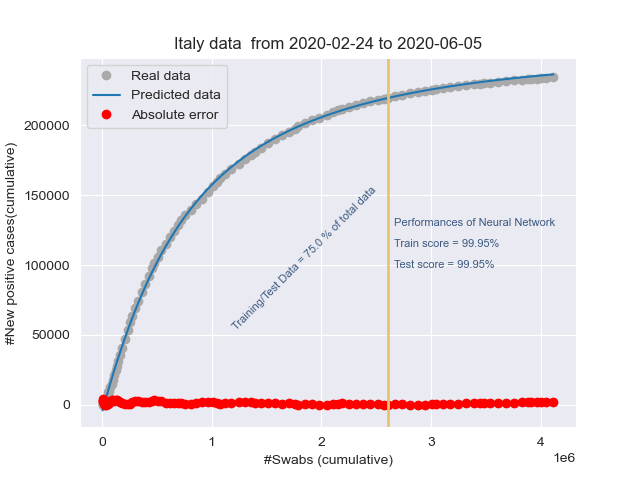
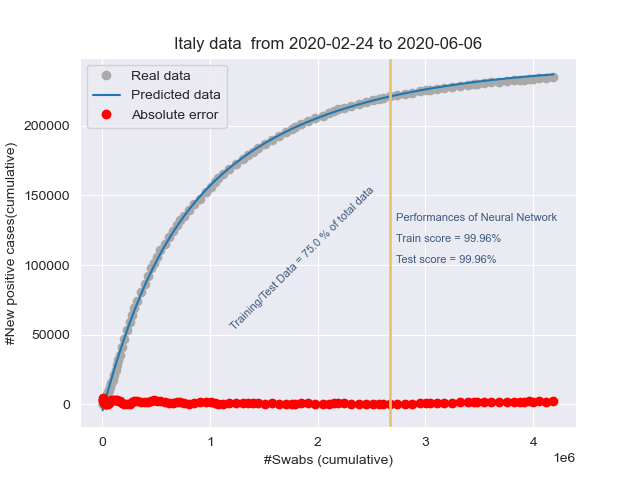
Add files via upload

diff --git a/stat_Friuli Venezia Giulia.html b/stat_Friuli Venezia Giulia.html
@@ -1,1 +1,1 @@
-<!DOCTYPE html><html lang="it"><head><title>Results</title><meta charset="utf-8"><meta name="viewport" content="width=device-width, initial-scale=1"><link rel="stylesheet" href="bootstrap.min.css"><script src="https://ajax.googleapis.com/ajax/libs/jquery/3.4.1/jquery.min.js"></script><script src="https://maxcdn.bootstrapcdn.com/bootstrap/3.4.1/js/bootstrap.min.js"></script></head><body><h3>Day: 2020-06-05</h3><p class="lead my-3">New positive cases: <b>1</b></p><p class="lead my-3">Variation of positive cases: <b>-66.67%</b></p><p class="lead my-3">Number of swabs: <b>3304.0</b></p><p class="lead my-3">Variation of swabs: <b>2.38%</b></p><p class="lead my-3">Postive cases/Swabs: <b>0.03 %</b></p><p class="lead my-3">Number of people admitted to Intensive care: <b>2</b></p><p class="lead my-3">Number of recovered people: <b>32.0</b></p><p class="lead my-3">Number of dead people: <b>2.0</b></p><h3>Total</h3><p class="lead my-3">Population of  Friuli Venezia Giulia: <b>1215220</b> <a href="http://dati.istat.it/Index.aspx?QueryId=18548" target="_blank">ISTAT data</a></p><p class="lead my-3">Total number of positive cases from 2020-02-24 00:00:00 to 2020-06-05: <b> 3280</b></p><p class="lead my-3">Total number of swabs from 2020-02-24 00:00:00 to 2020-06-05: <b> 142246</b></p><p class="lead my-3">TotalSwabs/Population: <b> 11.71%</b></p></body></html>
+<!DOCTYPE html><html lang="it"><head><title>Results</title><meta charset="utf-8"><meta name="viewport" content="width=device-width, initial-scale=1"><link rel="stylesheet" href="bootstrap.min.css"><script src="https://ajax.googleapis.com/ajax/libs/jquery/3.4.1/jquery.min.js"></script><script src="https://maxcdn.bootstrapcdn.com/bootstrap/3.4.1/js/bootstrap.min.js"></script></head><body><h3>Day: 2020-06-06</h3><p class="lead my-3">New positive cases: <b>3</b></p><p class="lead my-3">Variation of positive cases: <b>200.0%</b></p><p class="lead my-3">Number of swabs: <b>4092.0</b></p><p class="lead my-3">Variation of swabs: <b>2.88%</b></p><p class="lead my-3">Postive cases/Swabs: <b>0.07 %</b></p><p class="lead my-3">Number of people admitted to Intensive care: <b>2</b></p><p class="lead my-3">Number of recovered people: <b>22.0</b></p><p class="lead my-3">Number of dead people: <b>0.0</b></p><h3>Total</h3><p class="lead my-3">Population of  Friuli Venezia Giulia: <b>1215220</b> <a href="http://dati.istat.it/Index.aspx?QueryId=18548" target="_blank">ISTAT data</a></p><p class="lead my-3">Total number of positive cases from 2020-02-24 00:00:00 to 2020-06-06: <b> 3283</b></p><p class="lead my-3">Total number of swabs from 2020-02-24 00:00:00 to 2020-06-06: <b> 146338</b></p><p class="lead my-3">TotalSwabs/Population: <b> 12.04%</b></p></body></html>

diff --git a/stat_Lombardia.html b/stat_Lombardia.html
@@ -1,1 +1,1 @@
-<!DOCTYPE html><html lang="it"><head><title>Results</title><meta charset="utf-8"><meta name="viewport" content="width=device-width, initial-scale=1"><link rel="stylesheet" href="bootstrap.min.css"><script src="https://ajax.googleapis.com/ajax/libs/jquery/3.4.1/jquery.min.js"></script><script src="https://maxcdn.bootstrapcdn.com/bootstrap/3.4.1/js/bootstrap.min.js"></script></head><body><h3>Day: 2020-06-05</h3><p class="lead my-3">New positive cases: <b>402</b></p><p class="lead my-3">Variation of positive cases: <b>378.57%</b></p><p class="lead my-3">Number of swabs: <b>19389.0</b></p><p class="lead my-3">Variation of swabs: <b>2.48%</b></p><p class="lead my-3">Postive cases/Swabs: <b>2.07 %</b></p><p class="lead my-3">Number of people admitted to Intensive care: <b>120</b></p><p class="lead my-3">Number of recovered people: <b>752.0</b></p><p class="lead my-3">Number of dead people: <b>21.0</b></p><h3>Total</h3><p class="lead my-3">Population of  Lombardia: <b>10060574</b> <a href="http://dati.istat.it/Index.aspx?QueryId=18548" target="_blank">ISTAT data</a></p><p class="lead my-3">Total number of positive cases from 2020-02-24 00:00:00 to 2020-06-05: <b> 89922</b></p><p class="lead my-3">Total number of swabs from 2020-02-24 00:00:00 to 2020-06-05: <b> 800276</b></p><p class="lead my-3">TotalSwabs/Population: <b> 7.95%</b></p></body></html>
+<!DOCTYPE html><html lang="it"><head><title>Results</title><meta charset="utf-8"><meta name="viewport" content="width=device-width, initial-scale=1"><link rel="stylesheet" href="bootstrap.min.css"><script src="https://ajax.googleapis.com/ajax/libs/jquery/3.4.1/jquery.min.js"></script><script src="https://maxcdn.bootstrapcdn.com/bootstrap/3.4.1/js/bootstrap.min.js"></script></head><body><h3>Day: 2020-06-06</h3><p class="lead my-3">New positive cases: <b>142</b></p><p class="lead my-3">Variation of positive cases: <b>-64.68%</b></p><p class="lead my-3">Number of swabs: <b>13696.0</b></p><p class="lead my-3">Variation of swabs: <b>1.71%</b></p><p class="lead my-3">Postive cases/Swabs: <b>1.04 %</b></p><p class="lead my-3">Number of people admitted to Intensive care: <b>110</b></p><p class="lead my-3">Number of recovered people: <b>469.0</b></p><p class="lead my-3">Number of dead people: <b>27.0</b></p><h3>Total</h3><p class="lead my-3">Population of  Lombardia: <b>10060574</b> <a href="http://dati.istat.it/Index.aspx?QueryId=18548" target="_blank">ISTAT data</a></p><p class="lead my-3">Total number of positive cases from 2020-02-24 00:00:00 to 2020-06-06: <b> 90064</b></p><p class="lead my-3">Total number of swabs from 2020-02-24 00:00:00 to 2020-06-06: <b> 813972</b></p><p class="lead my-3">TotalSwabs/Population: <b> 8.09%</b></p></body></html>

diff --git a/stat_Emilia-Romagna.html b/stat_Emilia-Romagna.html
@@ -1,1 +1,1 @@
-<!DOCTYPE html><html lang="it"><head><title>Results</title><meta charset="utf-8"><meta name="viewport" content="width=device-width, initial-scale=1"><link rel="stylesheet" href="bootstrap.min.css"><script src="https://ajax.googleapis.com/ajax/libs/jquery/3.4.1/jquery.min.js"></script><script src="https://maxcdn.bootstrapcdn.com/bootstrap/3.4.1/js/bootstrap.min.js"></script></head><body><h3>Day: 2020-06-05</h3><p class="lead my-3">New positive cases: <b>17</b></p><p class="lead my-3">Variation of positive cases: <b>-5.56%</b></p><p class="lead my-3">Number of swabs: <b>5436.0</b></p><p class="lead my-3">Variation of swabs: <b>1.59%</b></p><p class="lead my-3">Postive cases/Swabs: <b>0.31 %</b></p><p class="lead my-3">Number of people admitted to Intensive care: <b>38</b></p><p class="lead my-3">Number of recovered people: <b>180.0</b></p><p class="lead my-3">Number of dead people: <b>13.0</b></p><h3>Total</h3><p class="lead my-3">Population of  Emilia-Romagna: <b>4459477</b> <a href="http://dati.istat.it/Index.aspx?QueryId=18548" target="_blank">ISTAT data</a></p><p class="lead my-3">Total number of positive cases from 2020-02-24 00:00:00 to 2020-06-05: <b> 27877</b></p><p class="lead my-3">Total number of swabs from 2020-02-24 00:00:00 to 2020-06-05: <b> 347146</b></p><p class="lead my-3">TotalSwabs/Population: <b> 7.78%</b></p></body></html>
+<!DOCTYPE html><html lang="it"><head><title>Results</title><meta charset="utf-8"><meta name="viewport" content="width=device-width, initial-scale=1"><link rel="stylesheet" href="bootstrap.min.css"><script src="https://ajax.googleapis.com/ajax/libs/jquery/3.4.1/jquery.min.js"></script><script src="https://maxcdn.bootstrapcdn.com/bootstrap/3.4.1/js/bootstrap.min.js"></script></head><body><h3>Day: 2020-06-06</h3><p class="lead my-3">New positive cases: <b>17</b></p><p class="lead my-3">Variation of positive cases: <b>0.0%</b></p><p class="lead my-3">Number of swabs: <b>4000.0</b></p><p class="lead my-3">Variation of swabs: <b>1.15%</b></p><p class="lead my-3">Postive cases/Swabs: <b>0.43 %</b></p><p class="lead my-3">Number of people admitted to Intensive care: <b>35</b></p><p class="lead my-3">Number of recovered people: <b>109.0</b></p><p class="lead my-3">Number of dead people: <b>4.0</b></p><h3>Total</h3><p class="lead my-3">Population of  Emilia-Romagna: <b>4459477</b> <a href="http://dati.istat.it/Index.aspx?QueryId=18548" target="_blank">ISTAT data</a></p><p class="lead my-3">Total number of positive cases from 2020-02-24 00:00:00 to 2020-06-06: <b> 27894</b></p><p class="lead my-3">Total number of swabs from 2020-02-24 00:00:00 to 2020-06-06: <b> 351146</b></p><p class="lead my-3">TotalSwabs/Population: <b> 7.87%</b></p></body></html>

diff --git a/stat_Italy.html b/stat_Italy.html
@@ -1,1 +1,1 @@
-<!DOCTYPE html><html lang="it"><head><title>Results</title><meta charset="utf-8"><meta name="viewport" content="width=device-width, initial-scale=1"><link rel="stylesheet" href="bootstrap.min.css"><script src="https://ajax.googleapis.com/ajax/libs/jquery/3.4.1/jquery.min.js"></script><script src="https://maxcdn.bootstrapcdn.com/bootstrap/3.4.1/js/bootstrap.min.js"></script></head><body><h3>Day: 2020-06-05</h3><p class="lead my-3">New positive cases: <b>518</b></p><p class="lead my-3">Variation of positive cases: <b>192.66%</b></p><p class="lead my-3">Number of swabs: <b>65028.0</b></p><p class="lead my-3">Variation of swabs: <b>1.61%</b></p><p class="lead my-3">Postive cases/Swabs: <b>0.8 %</b></p><p class="lead my-3">Number of people admitted to Intensive care: <b>316</b></p><p class="lead my-3">Number of recovered people: <b>1886.0</b></p><p class="lead my-3">Number of dead people: <b>85.0</b></p><h3>Total</h3><p class="lead my-3">Population of  Italy: <b>60359546</b> <a href="http://dati.istat.it/Index.aspx?QueryId=18548" target="_blank">ISTAT data</a></p><p class="lead my-3">Total number of positive cases from 2020-02-24 00:00:00 to 2020-06-05: <b> 234523</b></p><p class="lead my-3">Total number of swabs from 2020-02-24 00:00:00 to 2020-06-05: <b> 4114572</b></p><p class="lead my-3">TotalSwabs/Population: <b> 6.82%</b></p></body></html>
+<!DOCTYPE html><html lang="it"><head><title>Results</title><meta charset="utf-8"><meta name="viewport" content="width=device-width, initial-scale=1"><link rel="stylesheet" href="bootstrap.min.css"><script src="https://ajax.googleapis.com/ajax/libs/jquery/3.4.1/jquery.min.js"></script><script src="https://maxcdn.bootstrapcdn.com/bootstrap/3.4.1/js/bootstrap.min.js"></script></head><body><h3>Day: 2020-06-06</h3><p class="lead my-3">New positive cases: <b>270</b></p><p class="lead my-3">Variation of positive cases: <b>-47.88%</b></p><p class="lead my-3">Number of swabs: <b>72485.0</b></p><p class="lead my-3">Variation of swabs: <b>1.76%</b></p><p class="lead my-3">Postive cases/Swabs: <b>0.37 %</b></p><p class="lead my-3">Number of people admitted to Intensive care: <b>293</b></p><p class="lead my-3">Number of recovered people: <b>1297.0</b></p><p class="lead my-3">Number of dead people: <b>72.0</b></p><h3>Total</h3><p class="lead my-3">Population of  Italy: <b>60359546</b> <a href="http://dati.istat.it/Index.aspx?QueryId=18548" target="_blank">ISTAT data</a></p><p class="lead my-3">Total number of positive cases from 2020-02-24 00:00:00 to 2020-06-06: <b> 234793</b></p><p class="lead my-3">Total number of swabs from 2020-02-24 00:00:00 to 2020-06-06: <b> 4187057</b></p><p class="lead my-3">TotalSwabs/Population: <b> 6.94%</b></p></body></html>

diff --git a/stat_Piemonte.html b/stat_Piemonte.html
@@ -1,1 +1,1 @@
-<!DOCTYPE html><html lang="it"><head><title>Results</title><meta charset="utf-8"><meta name="viewport" content="width=device-width, initial-scale=1"><link rel="stylesheet" href="bootstrap.min.css"><script src="https://ajax.googleapis.com/ajax/libs/jquery/3.4.1/jquery.min.js"></script><script src="https://maxcdn.bootstrapcdn.com/bootstrap/3.4.1/js/bootstrap.min.js"></script></head><body><h3>Day: 2020-06-05</h3><p class="lead my-3">New positive cases: <b>49</b></p><p class="lead my-3">Variation of positive cases: <b>104.17%</b></p><p class="lead my-3">Number of swabs: <b>4573.0</b></p><p class="lead my-3">Variation of swabs: <b>1.38%</b></p><p class="lead my-3">Postive cases/Swabs: <b>1.07 %</b></p><p class="lead my-3">Number of people admitted to Intensive care: <b>40</b></p><p class="lead my-3">Number of recovered people: <b>219.0</b></p><p class="lead my-3">Number of dead people: <b>17.0</b></p><h3>Total</h3><p class="lead my-3">Population of  Piemonte: <b>4356406</b> <a href="http://dati.istat.it/Index.aspx?QueryId=18548" target="_blank">ISTAT data</a></p><p class="lead my-3">Total number of positive cases from 2020-02-24 00:00:00 to 2020-06-05: <b> 30807</b></p><p class="lead my-3">Total number of swabs from 2020-02-24 00:00:00 to 2020-06-05: <b> 335814</b></p><p class="lead my-3">TotalSwabs/Population: <b> 7.71%</b></p></body></html>
+<!DOCTYPE html><html lang="it"><head><title>Results</title><meta charset="utf-8"><meta name="viewport" content="width=device-width, initial-scale=1"><link rel="stylesheet" href="bootstrap.min.css"><script src="https://ajax.googleapis.com/ajax/libs/jquery/3.4.1/jquery.min.js"></script><script src="https://maxcdn.bootstrapcdn.com/bootstrap/3.4.1/js/bootstrap.min.js"></script></head><body><h3>Day: 2020-06-06</h3><p class="lead my-3">New positive cases: <b>38</b></p><p class="lead my-3">Variation of positive cases: <b>-22.45%</b></p><p class="lead my-3">Number of swabs: <b>4362.0</b></p><p class="lead my-3">Variation of swabs: <b>1.3%</b></p><p class="lead my-3">Postive cases/Swabs: <b>0.87 %</b></p><p class="lead my-3">Number of people admitted to Intensive care: <b>37</b></p><p class="lead my-3">Number of recovered people: <b>233.0</b></p><p class="lead my-3">Number of dead people: <b>7.0</b></p><h3>Total</h3><p class="lead my-3">Population of  Piemonte: <b>4356406</b> <a href="http://dati.istat.it/Index.aspx?QueryId=18548" target="_blank">ISTAT data</a></p><p class="lead my-3">Total number of positive cases from 2020-02-24 00:00:00 to 2020-06-06: <b> 30845</b></p><p class="lead my-3">Total number of swabs from 2020-02-24 00:00:00 to 2020-06-06: <b> 340176</b></p><p class="lead my-3">TotalSwabs/Population: <b> 7.81%</b></p></body></html>

diff --git a/stat_Toscana.html b/stat_Toscana.html
@@ -1,1 +1,1 @@
-<!DOCTYPE html><html lang="it"><head><title>Results</title><meta charset="utf-8"><meta name="viewport" content="width=device-width, initial-scale=1"><link rel="stylesheet" href="bootstrap.min.css"><script src="https://ajax.googleapis.com/ajax/libs/jquery/3.4.1/jquery.min.js"></script><script src="https://maxcdn.bootstrapcdn.com/bootstrap/3.4.1/js/bootstrap.min.js"></script></head><body><h3>Day: 2020-06-05</h3><p class="lead my-3">New positive cases: <b>7</b></p><p class="lead my-3">Variation of positive cases: <b>600.0%</b></p><p class="lead my-3">Number of swabs: <b>3746.0</b></p><p class="lead my-3">Variation of swabs: <b>1.43%</b></p><p class="lead my-3">Postive cases/Swabs: <b>0.19 %</b></p><p class="lead my-3">Number of people admitted to Intensive care: <b>23</b></p><p class="lead my-3">Number of recovered people: <b>29.0</b></p><p class="lead my-3">Number of dead people: <b>4.0</b></p><h3>Total</h3><p class="lead my-3">Population of  Toscana: <b>3729641</b> <a href="http://dati.istat.it/Index.aspx?QueryId=18548" target="_blank">ISTAT data</a></p><p class="lead my-3">Total number of positive cases from 2020-02-24 00:00:00 to 2020-06-05: <b> 10129</b></p><p class="lead my-3">Total number of swabs from 2020-02-24 00:00:00 to 2020-06-05: <b> 266508</b></p><p class="lead my-3">TotalSwabs/Population: <b> 7.15%</b></p></body></html>
+<!DOCTYPE html><html lang="it"><head><title>Results</title><meta charset="utf-8"><meta name="viewport" content="width=device-width, initial-scale=1"><link rel="stylesheet" href="bootstrap.min.css"><script src="https://ajax.googleapis.com/ajax/libs/jquery/3.4.1/jquery.min.js"></script><script src="https://maxcdn.bootstrapcdn.com/bootstrap/3.4.1/js/bootstrap.min.js"></script></head><body><h3>Day: 2020-06-06</h3><p class="lead my-3">New positive cases: <b>5</b></p><p class="lead my-3">Variation of positive cases: <b>-28.57%</b></p><p class="lead my-3">Number of swabs: <b>2790.0</b></p><p class="lead my-3">Variation of swabs: <b>1.05%</b></p><p class="lead my-3">Postive cases/Swabs: <b>0.18 %</b></p><p class="lead my-3">Number of people admitted to Intensive care: <b>22</b></p><p class="lead my-3">Number of recovered people: <b>72.0</b></p><p class="lead my-3">Number of dead people: <b>5.0</b></p><h3>Total</h3><p class="lead my-3">Population of  Toscana: <b>3729641</b> <a href="http://dati.istat.it/Index.aspx?QueryId=18548" target="_blank">ISTAT data</a></p><p class="lead my-3">Total number of positive cases from 2020-02-24 00:00:00 to 2020-06-06: <b> 10134</b></p><p class="lead my-3">Total number of swabs from 2020-02-24 00:00:00 to 2020-06-06: <b> 269298</b></p><p class="lead my-3">TotalSwabs/Population: <b> 7.22%</b></p></body></html>

diff --git a/stat_Veneto.html b/stat_Veneto.html
@@ -1,1 +1,1 @@
-<!DOCTYPE html><html lang="it"><head><title>Results</title><meta charset="utf-8"><meta name="viewport" content="width=device-width, initial-scale=1"><link rel="stylesheet" href="bootstrap.min.css"><script src="https://ajax.googleapis.com/ajax/libs/jquery/3.4.1/jquery.min.js"></script><script src="https://maxcdn.bootstrapcdn.com/bootstrap/3.4.1/js/bootstrap.min.js"></script></head><body><h3>Day: 2020-06-05</h3><p class="lead my-3">New positive cases: <b>6</b></p><p class="lead my-3">Variation of positive cases: <b>50.0%</b></p><p class="lead my-3">Number of swabs: <b>7025.0</b></p><p class="lead my-3">Variation of swabs: <b>0.99%</b></p><p class="lead my-3">Postive cases/Swabs: <b>0.09 %</b></p><p class="lead my-3">Number of people admitted to Intensive care: <b>2</b></p><p class="lead my-3">Number of recovered people: <b>92.0</b></p><p class="lead my-3">Number of dead people: <b>4.0</b></p><h3>Total</h3><p class="lead my-3">Population of  Veneto: <b>4905854</b> <a href="http://dati.istat.it/Index.aspx?QueryId=18548" target="_blank">ISTAT data</a></p><p class="lead my-3">Total number of positive cases from 2020-02-24 00:00:00 to 2020-06-05: <b> 19173</b></p><p class="lead my-3">Total number of swabs from 2020-02-24 00:00:00 to 2020-06-05: <b> 713500</b></p><p class="lead my-3">TotalSwabs/Population: <b> 14.54%</b></p></body></html>
+<!DOCTYPE html><html lang="it"><head><title>Results</title><meta charset="utf-8"><meta name="viewport" content="width=device-width, initial-scale=1"><link rel="stylesheet" href="bootstrap.min.css"><script src="https://ajax.googleapis.com/ajax/libs/jquery/3.4.1/jquery.min.js"></script><script src="https://maxcdn.bootstrapcdn.com/bootstrap/3.4.1/js/bootstrap.min.js"></script></head><body><h3>Day: 2020-06-06</h3><p class="lead my-3">New positive cases: <b>8</b></p><p class="lead my-3">Variation of positive cases: <b>33.33%</b></p><p class="lead my-3">Number of swabs: <b>20630.0</b></p><p class="lead my-3">Variation of swabs: <b>2.89%</b></p><p class="lead my-3">Postive cases/Swabs: <b>0.04 %</b></p><p class="lead my-3">Number of people admitted to Intensive care: <b>2</b></p><p class="lead my-3">Number of recovered people: <b>62.0</b></p><p class="lead my-3">Number of dead people: <b>11.0</b></p><h3>Total</h3><p class="lead my-3">Population of  Veneto: <b>4905854</b> <a href="http://dati.istat.it/Index.aspx?QueryId=18548" target="_blank">ISTAT data</a></p><p class="lead my-3">Total number of positive cases from 2020-02-24 00:00:00 to 2020-06-06: <b> 19181</b></p><p class="lead my-3">Total number of swabs from 2020-02-24 00:00:00 to 2020-06-06: <b> 734130</b></p><p class="lead my-3">TotalSwabs/Population: <b> 14.96%</b></p></body></html>

diff --git a/stat_Liguria.html b/stat_Liguria.html
@@ -1,1 +1,1 @@
-<!DOCTYPE html><html lang="it"><head><title>Results</title><meta charset="utf-8"><meta name="viewport" content="width=device-width, initial-scale=1"><link rel="stylesheet" href="bootstrap.min.css"><script src="https://ajax.googleapis.com/ajax/libs/jquery/3.4.1/jquery.min.js"></script><script src="https://maxcdn.bootstrapcdn.com/bootstrap/3.4.1/js/bootstrap.min.js"></script></head><body><h3>Day: 2020-06-05</h3><p class="lead my-3">New positive cases: <b>14</b></p><p class="lead my-3">Variation of positive cases: <b>-33.33%</b></p><p class="lead my-3">Number of swabs: <b>1742.0</b></p><p class="lead my-3">Variation of swabs: <b>1.56%</b></p><p class="lead my-3">Postive cases/Swabs: <b>0.8 %</b></p><p class="lead my-3">Number of people admitted to Intensive care: <b>6</b></p><p class="lead my-3">Number of recovered people: <b>157.0</b></p><p class="lead my-3">Number of dead people: <b>7.0</b></p><h3>Total</h3><p class="lead my-3">Population of  Liguria: <b>1550640</b> <a href="http://dati.istat.it/Index.aspx?QueryId=18548" target="_blank">ISTAT data</a></p><p class="lead my-3">Total number of positive cases from 2020-02-24 00:00:00 to 2020-06-05: <b> 9786</b></p><p class="lead my-3">Total number of swabs from 2020-02-24 00:00:00 to 2020-06-05: <b> 113329</b></p><p class="lead my-3">TotalSwabs/Population: <b> 7.31%</b></p></body></html>
+<!DOCTYPE html><html lang="it"><head><title>Results</title><meta charset="utf-8"><meta name="viewport" content="width=device-width, initial-scale=1"><link rel="stylesheet" href="bootstrap.min.css"><script src="https://ajax.googleapis.com/ajax/libs/jquery/3.4.1/jquery.min.js"></script><script src="https://maxcdn.bootstrapcdn.com/bootstrap/3.4.1/js/bootstrap.min.js"></script></head><body><h3>Day: 2020-06-06</h3><p class="lead my-3">New positive cases: <b>13</b></p><p class="lead my-3">Variation of positive cases: <b>-7.14%</b></p><p class="lead my-3">Number of swabs: <b>1558.0</b></p><p class="lead my-3">Variation of swabs: <b>1.37%</b></p><p class="lead my-3">Postive cases/Swabs: <b>0.83 %</b></p><p class="lead my-3">Number of people admitted to Intensive care: <b>4</b></p><p class="lead my-3">Number of recovered people: <b>6.0</b></p><p class="lead my-3">Number of dead people: <b>6.0</b></p><h3>Total</h3><p class="lead my-3">Population of  Liguria: <b>1550640</b> <a href="http://dati.istat.it/Index.aspx?QueryId=18548" target="_blank">ISTAT data</a></p><p class="lead my-3">Total number of positive cases from 2020-02-24 00:00:00 to 2020-06-06: <b> 9799</b></p><p class="lead my-3">Total number of swabs from 2020-02-24 00:00:00 to 2020-06-06: <b> 114887</b></p><p class="lead my-3">TotalSwabs/Population: <b> 7.41%</b></p></body></html>

diff --git a/stat_P.A. Bolzano.html b/stat_P.A. Bolzano.html
@@ -1,1 +1,1 @@
-<!DOCTYPE html><html lang="it"><head><title>Results</title><meta charset="utf-8"><meta name="viewport" content="width=device-width, initial-scale=1"><link rel="stylesheet" href="bootstrap.min.css"><script src="https://ajax.googleapis.com/ajax/libs/jquery/3.4.1/jquery.min.js"></script><script src="https://maxcdn.bootstrapcdn.com/bootstrap/3.4.1/js/bootstrap.min.js"></script></head><body><h3>Day: 2020-06-05</h3><p class="lead my-3">New positive cases: <b>1</b></p><p class="lead my-3">Variation of positive cases: <b>inf%</b></p><p class="lead my-3">Number of swabs: <b>953.0</b></p><p class="lead my-3">Variation of swabs: <b>1.39%</b></p><p class="lead my-3">Postive cases/Swabs: <b>0.1 %</b></p><p class="lead my-3">Number of people admitted to Intensive care: <b>2</b></p><p class="lead my-3">Number of recovered people: <b>12.0</b></p><p class="lead my-3">Number of dead people: <b>0.0</b></p><h3>Total</h3><p class="lead my-3">Population of  P.A. Bolzano: <b>531178</b> <a href="http://dati.istat.it/Index.aspx?QueryId=18548" target="_blank">ISTAT data</a></p><p class="lead my-3">Total number of positive cases from 2020-02-24 00:00:00 to 2020-06-05: <b> 2599</b></p><p class="lead my-3">Total number of swabs from 2020-02-24 00:00:00 to 2020-06-05: <b> 69466</b></p><p class="lead my-3">TotalSwabs/Population: <b> 13.08%</b></p></body></html>
+<!DOCTYPE html><html lang="it"><head><title>Results</title><meta charset="utf-8"><meta name="viewport" content="width=device-width, initial-scale=1"><link rel="stylesheet" href="bootstrap.min.css"><script src="https://ajax.googleapis.com/ajax/libs/jquery/3.4.1/jquery.min.js"></script><script src="https://maxcdn.bootstrapcdn.com/bootstrap/3.4.1/js/bootstrap.min.js"></script></head><body><h3>Day: 2020-06-06</h3><p class="lead my-3">New positive cases: <b>1</b></p><p class="lead my-3">Variation of positive cases: <b>0.0%</b></p><p class="lead my-3">Number of swabs: <b>1112.0</b></p><p class="lead my-3">Variation of swabs: <b>1.6%</b></p><p class="lead my-3">Postive cases/Swabs: <b>0.09 %</b></p><p class="lead my-3">Number of people admitted to Intensive care: <b>2</b></p><p class="lead my-3">Number of recovered people: <b>2.0</b></p><p class="lead my-3">Number of dead people: <b>0.0</b></p><h3>Total</h3><p class="lead my-3">Population of  P.A. Bolzano: <b>531178</b> <a href="http://dati.istat.it/Index.aspx?QueryId=18548" target="_blank">ISTAT data</a></p><p class="lead my-3">Total number of positive cases from 2020-02-24 00:00:00 to 2020-06-06: <b> 2600</b></p><p class="lead my-3">Total number of swabs from 2020-02-24 00:00:00 to 2020-06-06: <b> 70578</b></p><p class="lead my-3">TotalSwabs/Population: <b> 13.29%</b></p></body></html>

diff --git a/stat_Abruzzo.html b/stat_Abruzzo.html
@@ -1,1 +1,1 @@
-<!DOCTYPE html><html lang="it"><head><title>Results</title><meta charset="utf-8"><meta name="viewport" content="width=device-width, initial-scale=1"><link rel="stylesheet" href="bootstrap.min.css"><script src="https://ajax.googleapis.com/ajax/libs/jquery/3.4.1/jquery.min.js"></script><script src="https://maxcdn.bootstrapcdn.com/bootstrap/3.4.1/js/bootstrap.min.js"></script></head><body><h3>Day: 2020-06-05</h3><p class="lead my-3">New positive cases: <b>2</b></p><p class="lead my-3">Variation of positive cases: <b>-33.33%</b></p><p class="lead my-3">Number of swabs: <b>1252.0</b></p><p class="lead my-3">Variation of swabs: <b>1.57%</b></p><p class="lead my-3">Postive cases/Swabs: <b>0.16 %</b></p><p class="lead my-3">Number of people admitted to Intensive care: <b>4</b></p><p class="lead my-3">Number of recovered people: <b>36.0</b></p><p class="lead my-3">Number of dead people: <b>0.0</b></p><h3>Total</h3><p class="lead my-3">Population of  Abruzzo: <b>1311580</b> <a href="http://dati.istat.it/Index.aspx?QueryId=18548" target="_blank">ISTAT data</a></p><p class="lead my-3">Total number of positive cases from 2020-02-24 00:00:00 to 2020-06-05: <b> 3257</b></p><p class="lead my-3">Total number of swabs from 2020-02-24 00:00:00 to 2020-06-05: <b> 80972</b></p><p class="lead my-3">TotalSwabs/Population: <b> 6.17%</b></p></body></html>
+<!DOCTYPE html><html lang="it"><head><title>Results</title><meta charset="utf-8"><meta name="viewport" content="width=device-width, initial-scale=1"><link rel="stylesheet" href="bootstrap.min.css"><script src="https://ajax.googleapis.com/ajax/libs/jquery/3.4.1/jquery.min.js"></script><script src="https://maxcdn.bootstrapcdn.com/bootstrap/3.4.1/js/bootstrap.min.js"></script></head><body><h3>Day: 2020-06-06</h3><p class="lead my-3">New positive cases: <b>1</b></p><p class="lead my-3">Variation of positive cases: <b>-50.0%</b></p><p class="lead my-3">Number of swabs: <b>1360.0</b></p><p class="lead my-3">Variation of swabs: <b>1.68%</b></p><p class="lead my-3">Postive cases/Swabs: <b>0.07 %</b></p><p class="lead my-3">Number of people admitted to Intensive care: <b>3</b></p><p class="lead my-3">Number of recovered people: <b>15.0</b></p><p class="lead my-3">Number of dead people: <b>3.0</b></p><h3>Total</h3><p class="lead my-3">Population of  Abruzzo: <b>1311580</b> <a href="http://dati.istat.it/Index.aspx?QueryId=18548" target="_blank">ISTAT data</a></p><p class="lead my-3">Total number of positive cases from 2020-02-24 00:00:00 to 2020-06-06: <b> 3258</b></p><p class="lead my-3">Total number of swabs from 2020-02-24 00:00:00 to 2020-06-06: <b> 82332</b></p><p class="lead my-3">TotalSwabs/Population: <b> 6.28%</b></p></body></html>

diff --git a/stat_Campania.html b/stat_Campania.html
@@ -1,1 +1,1 @@
-<!DOCTYPE html><html lang="it"><head><title>Results</title><meta charset="utf-8"><meta name="viewport" content="width=device-width, initial-scale=1"><link rel="stylesheet" href="bootstrap.min.css"><script src="https://ajax.googleapis.com/ajax/libs/jquery/3.4.1/jquery.min.js"></script><script src="https://maxcdn.bootstrapcdn.com/bootstrap/3.4.1/js/bootstrap.min.js"></script></head><body><h3>Day: 2020-06-05</h3><p class="lead my-3">New positive cases: <b>0</b></p><p class="lead my-3">Variation of positive cases: <b>-100.0%</b></p><p class="lead my-3">Number of swabs: <b>2485.0</b></p><p class="lead my-3">Variation of swabs: <b>1.18%</b></p><p class="lead my-3">Postive cases/Swabs: <b>0.0 %</b></p><p class="lead my-3">Number of people admitted to Intensive care: <b>7</b></p><p class="lead my-3">Number of recovered people: <b>51.0</b></p><p class="lead my-3">Number of dead people: <b>5.0</b></p><h3>Total</h3><p class="lead my-3">Population of  Campania: <b>5801692</b> <a href="http://dati.istat.it/Index.aspx?QueryId=18548" target="_blank">ISTAT data</a></p><p class="lead my-3">Total number of positive cases from 2020-02-24 00:00:00 to 2020-06-05: <b> 4822</b></p><p class="lead my-3">Total number of swabs from 2020-02-24 00:00:00 to 2020-06-05: <b> 212486</b></p><p class="lead my-3">TotalSwabs/Population: <b> 3.66%</b></p></body></html>
+<!DOCTYPE html><html lang="it"><head><title>Results</title><meta charset="utf-8"><meta name="viewport" content="width=device-width, initial-scale=1"><link rel="stylesheet" href="bootstrap.min.css"><script src="https://ajax.googleapis.com/ajax/libs/jquery/3.4.1/jquery.min.js"></script><script src="https://maxcdn.bootstrapcdn.com/bootstrap/3.4.1/js/bootstrap.min.js"></script></head><body><h3>Day: 2020-06-06</h3><p class="lead my-3">New positive cases: <b>0</b></p><p class="lead my-3">Variation of positive cases: <b>0.0%</b></p><p class="lead my-3">Number of swabs: <b>2918.0</b></p><p class="lead my-3">Variation of swabs: <b>1.37%</b></p><p class="lead my-3">Postive cases/Swabs: <b>0.0 %</b></p><p class="lead my-3">Number of people admitted to Intensive care: <b>7</b></p><p class="lead my-3">Number of recovered people: <b>35.0</b></p><p class="lead my-3">Number of dead people: <b>1.0</b></p><h3>Total</h3><p class="lead my-3">Population of  Campania: <b>5801692</b> <a href="http://dati.istat.it/Index.aspx?QueryId=18548" target="_blank">ISTAT data</a></p><p class="lead my-3">Total number of positive cases from 2020-02-24 00:00:00 to 2020-06-06: <b> 4822</b></p><p class="lead my-3">Total number of swabs from 2020-02-24 00:00:00 to 2020-06-06: <b> 215404</b></p><p class="lead my-3">TotalSwabs/Population: <b> 3.71%</b></p></body></html>

diff --git a/stat_Lazio.html b/stat_Lazio.html
@@ -1,1 +1,1 @@
-<!DOCTYPE html><html lang="it"><head><title>Results</title><meta charset="utf-8"><meta name="viewport" content="width=device-width, initial-scale=1"><link rel="stylesheet" href="bootstrap.min.css"><script src="https://ajax.googleapis.com/ajax/libs/jquery/3.4.1/jquery.min.js"></script><script src="https://maxcdn.bootstrapcdn.com/bootstrap/3.4.1/js/bootstrap.min.js"></script></head><body><h3>Day: 2020-06-05</h3><p class="lead my-3">New positive cases: <b>9</b></p><p class="lead my-3">Variation of positive cases: <b>-18.18%</b></p><p class="lead my-3">Number of swabs: <b>3181.0</b></p><p class="lead my-3">Variation of swabs: <b>1.2%</b></p><p class="lead my-3">Postive cases/Swabs: <b>0.28 %</b></p><p class="lead my-3">Number of people admitted to Intensive care: <b>51</b></p><p class="lead my-3">Number of recovered people: <b>49.0</b></p><p class="lead my-3">Number of dead people: <b>4.0</b></p><h3>Total</h3><p class="lead my-3">Population of  Lazio: <b>5879082</b> <a href="http://dati.istat.it/Index.aspx?QueryId=18548" target="_blank">ISTAT data</a></p><p class="lead my-3">Total number of positive cases from 2020-02-24 00:00:00 to 2020-06-05: <b> 7772</b></p><p class="lead my-3">Total number of swabs from 2020-02-24 00:00:00 to 2020-06-05: <b> 268561</b></p><p class="lead my-3">TotalSwabs/Population: <b> 4.57%</b></p></body></html>
+<!DOCTYPE html><html lang="it"><head><title>Results</title><meta charset="utf-8"><meta name="viewport" content="width=device-width, initial-scale=1"><link rel="stylesheet" href="bootstrap.min.css"><script src="https://ajax.googleapis.com/ajax/libs/jquery/3.4.1/jquery.min.js"></script><script src="https://maxcdn.bootstrapcdn.com/bootstrap/3.4.1/js/bootstrap.min.js"></script></head><body><h3>Day: 2020-06-06</h3><p class="lead my-3">New positive cases: <b>28</b></p><p class="lead my-3">Variation of positive cases: <b>211.11%</b></p><p class="lead my-3">Number of swabs: <b>3101.0</b></p><p class="lead my-3">Variation of swabs: <b>1.15%</b></p><p class="lead my-3">Postive cases/Swabs: <b>0.9 %</b></p><p class="lead my-3">Number of people admitted to Intensive care: <b>49</b></p><p class="lead my-3">Number of recovered people: <b>37.0</b></p><p class="lead my-3">Number of dead people: <b>4.0</b></p><h3>Total</h3><p class="lead my-3">Population of  Lazio: <b>5879082</b> <a href="http://dati.istat.it/Index.aspx?QueryId=18548" target="_blank">ISTAT data</a></p><p class="lead my-3">Total number of positive cases from 2020-02-24 00:00:00 to 2020-06-06: <b> 7800</b></p><p class="lead my-3">Total number of swabs from 2020-02-24 00:00:00 to 2020-06-06: <b> 271662</b></p><p class="lead my-3">TotalSwabs/Population: <b> 4.62%</b></p></body></html>
